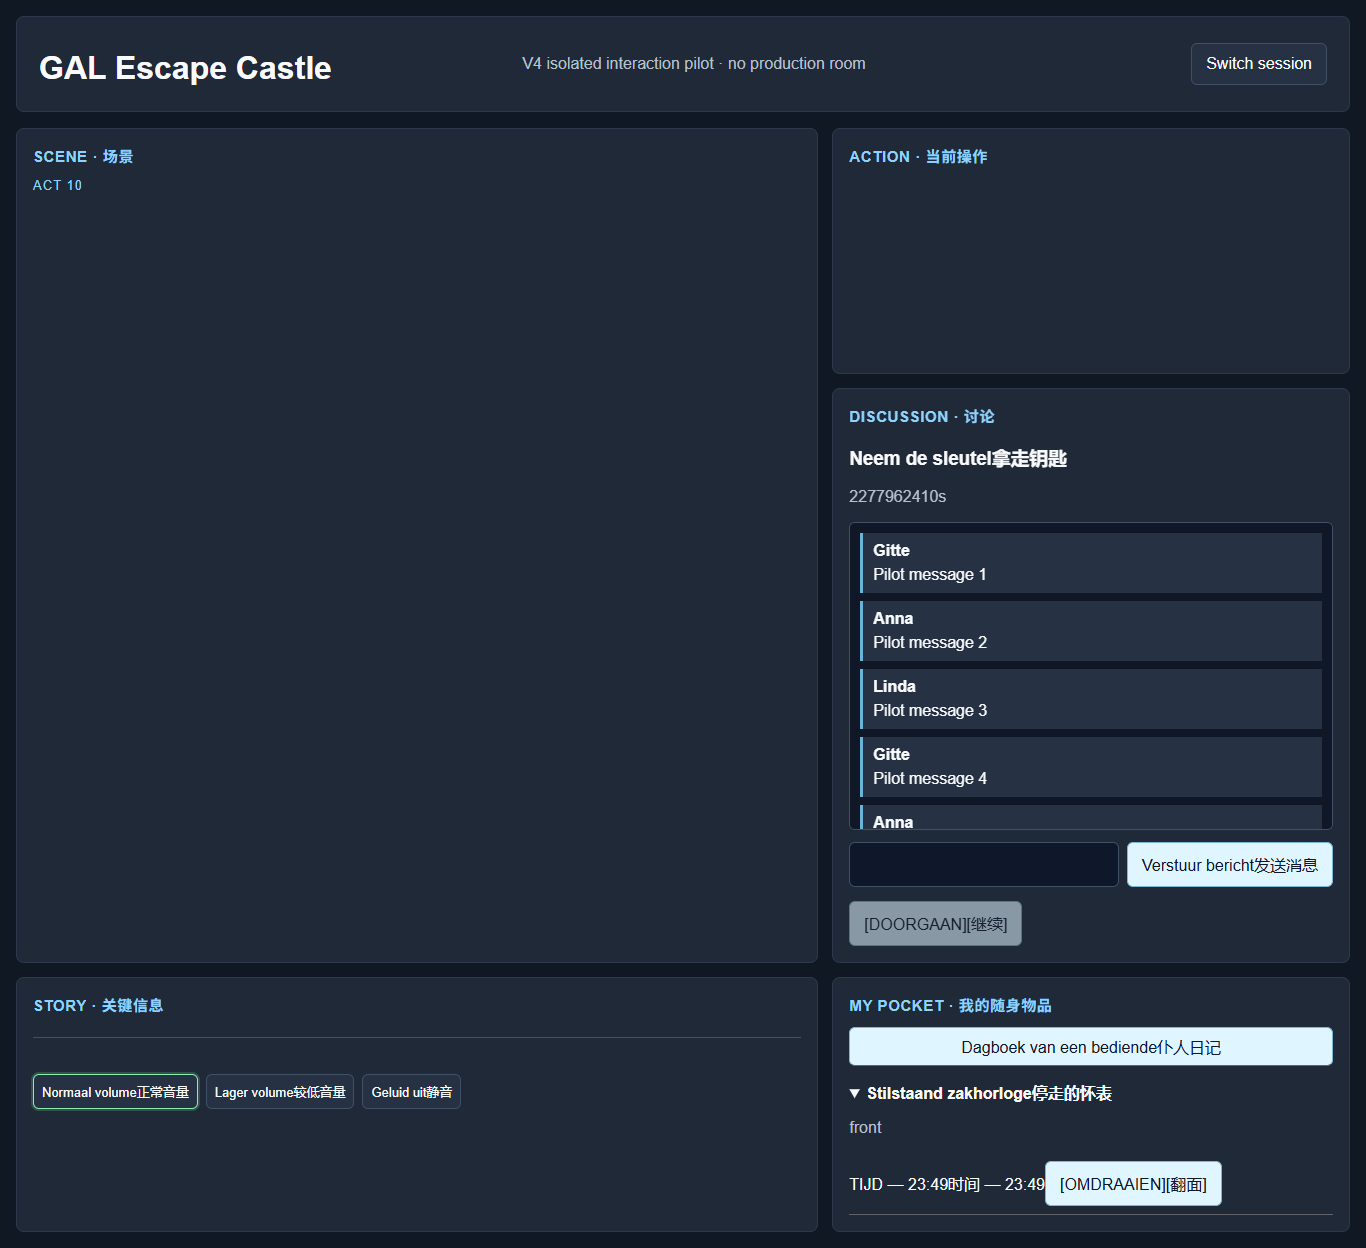
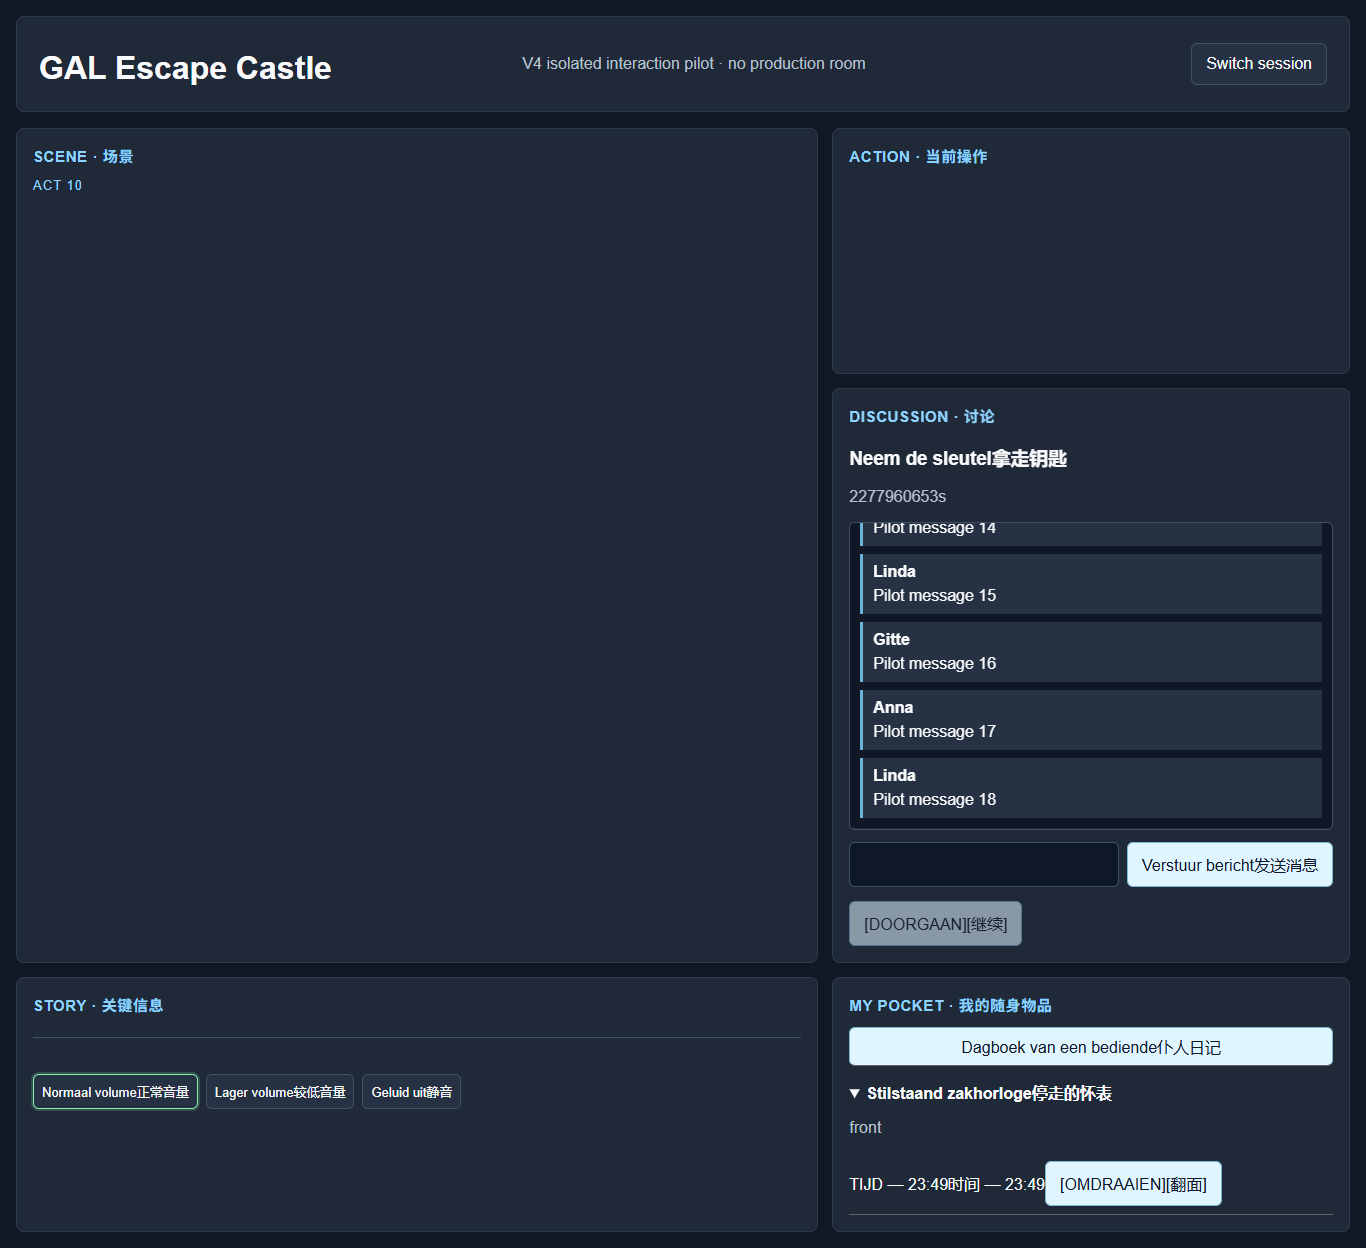
CD: start fresh V4 discussions at latest message

Changed region(s): [[0.6149, 0.4062, 0.9839, 0.6875]]

diff --git a/pilots/v4-two-scene/v4-presentation-adapter.js b/pilots/v4-two-scene/v4-presentation-adapter.js
@@ -31,7 +31,7 @@ function restore(){
     const embedded=document.querySelector("#sprint3bActions>.discussion-room");if(embedded&&embedded.parentElement!==saved.discussionMount){saved.discussionMount.querySelectorAll(".discussion-room:has(#s6MessageForm)").forEach(node=>node.remove());saved.discussionMount.append(embedded)}else if(!embedded)saved.discussionMount.querySelectorAll(".discussion-room:has(#s6MessageForm)").forEach(node=>node.remove());
     const pocket=document.querySelector("#sprint3bText .evidence-panel");if(pocket&&pocket.parentElement!==saved.pocketMount){saved.pocketMount.querySelectorAll(".evidence-panel").forEach(node=>node.remove());saved.pocketMount.append(pocket)}
     document.querySelectorAll("#messageText,#s6MessageText,#libraryCode").forEach(node=>{const key=inputIdentity(node),pending=saved.pendingSends.get(key);if(pending){const acknowledged=[...node.closest(".discussion-room")?.querySelectorAll(".message")||[]].some(message=>message.querySelector("b")?.textContent.trim()===pending.displayName&&message.querySelector("p")?.textContent===pending.value);if(acknowledged){saved.inputs.set(key,{source:node,value:"",focused:true,start:0,end:0});saved.pendingSends.delete(key)}}const state=saved.inputs.get(key);if(!state)return;node.value=state.value;if(state.focused){node.focus({preventScroll:true});if(state.start!==null&&state.end!==null)node.setSelectionRange(state.start,state.end)}state.source=node});
-    document.querySelectorAll("#transcript,.discussion-room .transcript").forEach(node=>{const state=saved.transcripts.get(discussionIdentity(node));if(!state)return;node.scrollTop=state.bottom?node.scrollHeight:state.top});
+    document.querySelectorAll("#transcript,.discussion-room .transcript").forEach(node=>{const key=discussionIdentity(node),state=saved.transcripts.get(key);if(!state){node.scrollTop=node.scrollHeight;saved.transcripts.set(key,{top:node.scrollTop,bottom:true});return}node.scrollTop=state.bottom?node.scrollHeight:state.top});
     saved.pocketMount.querySelectorAll(".evidence-panel details").forEach(node=>{const open=saved.pockets.get(pocketIdentity(node));if(open!==undefined)node.open=open});
     scrollTo(saved.viewport.x,saved.viewport.y);
     root.dataset.v4AdapterReady="true";

diff --git a/tests/v4-two-scene-pilot-static-check.js b/tests/v4-two-scene-pilot-static-check.js
@@ -5,7 +5,7 @@ assert(html.includes('../../src/game/app.js'),"pilot does not import real produc
 for(const token of["v4-runtime-grid","v4SceneMount","v4-action-region","v4-story-region","v4DiscussionMount","v4PocketMount","\"scene action\" \"scene discussion\" \"story pocket\"","@media(max-width:1399px)","@media(max-width:999px)"])assert(html.includes(token)||css.includes(token),`missing V4 shell contract ${token}`);
 for(const token of["MutationObserver","discussionIdentity","inputIdentity","nearBottom","selectionStart","preventScroll","dataset.v4AdapterReady"])assert(adapter.includes(token),`missing adapter contract ${token}`);
 for(const token of["compositionstart","compositionend","stopPolling","startPolling","v4ImeComposing"])assert(adapter.includes(token),`missing IME preservation contract ${token}`);
-for(const token of["pendingSends","acknowledged","captureTranscript"])assert(adapter.includes(token),`missing follow-bottom/send-ack contract ${token}`);
+for(const token of["pendingSends","acknowledged","captureTranscript","bottom:true"])assert(adapter.includes(token),`missing follow-bottom/send-ack contract ${token}`);
 assert(html.includes("globalThis.__GAL_A1_TEST_HOOKS__={}"),"isolated shell does not expose bounded polling controls");
 assert(!adapter.includes("fetch(")&&!adapter.includes("rpc("),"presentation adapter invented network/action authority");
 console.log("V4 two-scene pilot static checks passed.");

diff --git a/docs/reports/remediation/ui/v4-two-scene/V4_INITIAL_DISCUSSION_BOTTOM_POLISH_EVIDENCE_20261026.md b/docs/reports/remediation/ui/v4-two-scene/V4_INITIAL_DISCUSSION_BOTTOM_POLISH_EVIDENCE_20261026.md
@@ -1,0 +1,22 @@
+# V4 Initial Discussion Bottom Polish Evidence
+
+## Trigger and effort decision
+
+CA's `agent-comms/CA_to_CD_20261026T020000Z_v4-first-entry-scroll-triage.md` records overall ACT10 human PASS and one optional issue: a fresh Discussion identity with existing messages initially appeared above the newest message.
+
+The root cause was a single missing default in the isolated adapter. A known identity used its saved near-bottom or explicit scroll position, while an identity with no saved state returned without setting any position. This was a trivial pilot-only correction, so CD implemented it under CA's bounded authorization rather than deferring it.
+
+## Contract
+
+- First appearance of a fresh Discussion identity starts at bottom.
+- Later arrivals follow only while the reader was near bottom.
+- Deliberate reading of older messages preserves the exact anchor.
+- IME composition, successful/failed draft behavior and vote transitions are unchanged.
+
+## Evidence
+
+The browser test now asserts the transcript is already near bottom immediately after first render, before any manual scroll. It then confirms an incoming message remains followed, a deliberate 40px earlier-reading anchor remains fixed, successful send clears, failed send preserves, Chinese composition survives three polling periods, and Teacher Open Vote/ACT3/identity transitions pass.
+
+Existing A1 Player polling and CA284 Teacher Open Vote static/browser regressions, Sprint6, Structural Package A and `git diff --check` also pass.
+
+No production UI, Pages, database, Storage, backend, assets, game semantics or real rooms changed.
